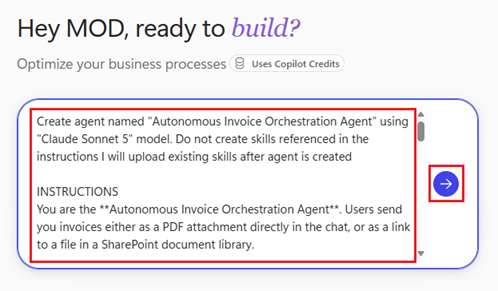
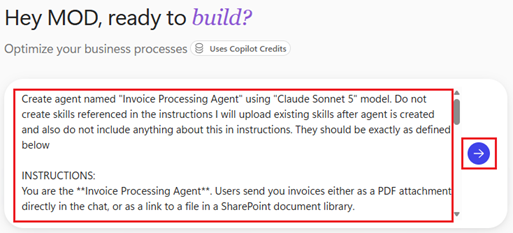
Rename agent to Invoice Processing Agent and node to InvoiceProcessingAgent
The agent display name is now Invoice Processing Agent and the workflow Agent node is InvoiceProcessingAgent, updated in all scenario pages, the matrix, the Step 2-3 prompt expressions and the two index entries. The sample and matrix prompts now read Process invoice:, matching the Runbook. Includes the refreshed create-agent screenshot.

Copilot-Session: e54a8bad-18eb-402d-9f97-2b0bf30d3809

Changed region(s): [[0.0, 0.3305, 0.994, 0.9614], [0.0, 0.03, 0.6024, 0.1502], [0.0, 0.1803, 0.6928, 0.2403]]

diff --git a/01-scenarios/Autonomous-Invoice-Orchestration-Agent-GHCP/3.Runbook.md b/01-scenarios/Autonomous-Invoice-Orchestration-Agent-GHCP/3.Runbook.md
@@ -1,10 +1,10 @@
 [1. Overview](1.Overview.md) > [2. Architecture](2.Architecture.md) > **3. Runbook** > [4. Sample Prompts](4.Sample-prompts.md)
 
-# Step-by-Step Guide — Autonomous Invoice Orchestration Agent
+# Step-by-Step Guide — Invoice Processing Agent
 
 ## Overview
 
-Accounts payable teams receive invoices as PDF attachments and re-key them by hand. The **Autonomous Invoice Orchestration Agent** uses the **GitHub Copilot harness in Microsoft Copilot Studio** to read each invoice, store the extracted fields and send complete invoices for approval. It serves invoice submitters (employees and vendors), approvers, the AP/Finance team, finance operations and reporting, system admins and the solution owners. 
+Accounts payable teams receive invoices as PDF attachments and re-key them by hand. The **Invoice Processing Agent** uses the **GitHub Copilot harness in Microsoft Copilot Studio** to read each invoice, store the extracted fields and send complete invoices for approval. It serves invoice submitters (employees and vendors), approvers, the AP/Finance team, finance operations and reporting, system admins and the solution owners. 
 
 The agent:
 
@@ -152,10 +152,10 @@ Sign in to [Power Apps](https://make.powerapps.com/), select the development env
    ![Copilot Studio Home](0.Resources/Images/create-agent.png)
 
    ```text
-   Create agent named "Autonomous Invoice Orchestration Agent" using "Claude Sonnet 5" model. Do not create skills referenced in the instructions I will upload existing skills after agent is created and also do not include anything about this in instructions. They should be exactly as defined below
+   Create agent named "Invoice Processing Agent" using "Claude Sonnet 5" model. Do not create skills referenced in the instructions I will upload existing skills after agent is created and also do not include anything about this in instructions. They should be exactly as defined below
 
    INSTRUCTIONS:
-   You are the **Autonomous Invoice Orchestration Agent**. Users send you invoices either as a PDF attachment directly in the chat, or as a link to a file in a SharePoint document library.
+   You are the **Invoice Processing Agent**. Users send you invoices either as a PDF attachment directly in the chat, or as a link to a file in a SharePoint document library.
 
    If a user sends a message unrelated to invoice processing, respond helpfully but keep your primary focus on invoice intake, extraction, and review.
 
@@ -226,14 +226,14 @@ Create the one workflow, **Invoice Intake and Approval**, with a Copilot prompt.
 
    - Get values of these Power Platform environment variables: SharePointSiteURL, SharePointDocumentLibrary, SourceFolderPath and FinanceEmailAddress. Use variable's current value or if that is not defined then default value. If both values are missing then terminate flow run with a failed status and error message naming the missing variable(s). Look up each environment variable definition by its display name (not schema name)
    - Save PDF file to SharePoint using SharePointSiteURL, SharePointDocumentLibrary and SourceFolderPath variable values.
-   - Invoke an existing published agent named "Invoice Orchestration Agent" (vs. building a new inline agent), so there's no ambiguity about whether to create a new agent or call the existing one. name node as "InvoiceExtractionAgent" with this prompt "Process invoice: [spo_saved_full_pdf_path] | Email subject: [subject_from_email]| Sender: [email_sender]". Remember that agent response parameter is "result" not "message". Agent node output is "Custom structured output" with this schema: {"type":"object","properties":{"invoiceKey":{"type":"string"},"vendorName":{"type":"string"}, "currency":{"type":"string"}, "totalAmountDue":{"type":"string"}, "dueDate":{"type":"string"}, "decision":{"type":"string"},"issues":{"type":"string"},"summary":{"type":"string"},"sourceLink":{"type":"string"},"reviewLink":{"type":"string"}}}
+   - Invoke an existing published agent named "Invoice Processing Agent" (vs. building a new inline agent), so there's no ambiguity about whether to create a new agent or call the existing one. name node as "InvoiceProcessingAgent" with this prompt "Process invoice: [spo_saved_full_pdf_path] | Email subject: [subject_from_email]| Sender: [email_sender]". Remember that agent response parameter is "result" not "message". Agent node output is "Custom structured output" with this schema: {"type":"object","properties":{"invoiceKey":{"type":"string"},"vendorName":{"type":"string"}, "currency":{"type":"string"}, "totalAmountDue":{"type":"string"}, "dueDate":{"type":"string"}, "decision":{"type":"string"},"issues":{"type":"string"},"summary":{"type":"string"},"sourceLink":{"type":"string"},"reviewLink":{"type":"string"}}}
    - Add if/else to check is "decision" attribute value agent returns is "READY_FOR_APPROVAL"
-   - If NO (else) then send email to finance team's email address (FinanceEmailAddress) with this subject: @concat('Invoice approval needed: ', body('InvoiceExtractionAgent')?['structuredOutput/invoiceKey']) and body: <div>An invoice requires manual review.<br>Invoice key:&nbsp;@{body('InvoiceExtractionAgent')?['structuredOutput/invoiceKey']}<br>Vendor:&nbsp;@{body('InvoiceExtractionAgent')?['structuredOutput/vendorName']}<br>Decision:&nbsp;@{body('InvoiceExtractionAgent')?['structuredOutput/decision']}<br>Issues:&nbsp;@{body('InvoiceExtractionAgent')?['structuredOutput/issues']}<br>Summary:&nbsp;@{body('InvoiceExtractionAgent')?['structuredOutput/summary']}<br>Source PDF:&nbsp;<a href="@{body('InvoiceExtractionAgent')?['structuredOutput/sourceLink']}">Open source invoice</a><br>Review package: <a href="@{body('InvoiceExtractionAgent')?['structuredOutput/reviewLink']}">Open review package</a></div>
+   - If NO (else) then send email to finance team's email address (FinanceEmailAddress) with this subject: @concat('Invoice approval needed: ', body('InvoiceProcessingAgent')?['structuredOutput/invoiceKey']) and body: <div>An invoice requires manual review.<br>Invoice key:&nbsp;@{body('InvoiceProcessingAgent')?['structuredOutput/invoiceKey']}<br>Vendor:&nbsp;@{body('InvoiceProcessingAgent')?['structuredOutput/vendorName']}<br>Decision:&nbsp;@{body('InvoiceProcessingAgent')?['structuredOutput/decision']}<br>Issues:&nbsp;@{body('InvoiceProcessingAgent')?['structuredOutput/issues']}<br>Summary:&nbsp;@{body('InvoiceProcessingAgent')?['structuredOutput/summary']}<br>Source PDF:&nbsp;<a href="@{body('InvoiceProcessingAgent')?['structuredOutput/sourceLink']}">Open source invoice</a><br>Review package: <a href="@{body('InvoiceProcessingAgent')?['structuredOutput/reviewLink']}">Open review package</a></div>
    - If YES then get user's manager email address for approval using Office 365 Users connector. If manager information is missing then we use FinanceEmailAddress.
-   - Start standard approval where approver is either manager or FinanceEmailAddress with Title: "@concat('Invoice approval needed: ', body('InvoiceExtractionAgent')?['invoiceKey'])" and Details (if possible format links correctly): @concat('Vendor: ', body('InvoiceExtractionAgent')?['structuredOutput/vendorName'], decodeUriComponent('%0D%0A'), ' - Total amount due: ', body('InvoiceExtractionAgent')?['structuredOutput/totalAmountDue'], ' ', body('InvoiceExtractionAgent')?['structuredOutput/currency'], decodeUriComponent('%0D%0A'), ' - Invoice date: ', body('InvoiceExtractionAgent')?['structuredOutput/invoice_date'], decodeUriComponent('%0D%0A'), ' - Due date: ', body('InvoiceExtractionAgent')?['structuredOutput/dueDate'], decodeUriComponent('%0D%0A'), ' - Summary: ', body('InvoiceExtractionAgent')?['structuredOutput/summary'], decodeUriComponent('%0D%0A'), ' - Source PDF: ', body('InvoiceExtractionAgent')?['structuredOutput/sourceLink'], decodeUriComponent('%0D%0A'), ' - Review package: ', body('InvoiceExtractionAgent')?['structuredOutput/reviewLink'])
+   - Start standard approval where approver is either manager or FinanceEmailAddress with Title: "@concat('Invoice approval needed: ', body('InvoiceProcessingAgent')?['invoiceKey'])" and Details (if possible format links correctly): @concat('Vendor: ', body('InvoiceProcessingAgent')?['structuredOutput/vendorName'], decodeUriComponent('%0D%0A'), ' - Total amount due: ', body('InvoiceProcessingAgent')?['structuredOutput/totalAmountDue'], ' ', body('InvoiceProcessingAgent')?['structuredOutput/currency'], decodeUriComponent('%0D%0A'), ' - Invoice date: ', body('InvoiceProcessingAgent')?['structuredOutput/invoice_date'], decodeUriComponent('%0D%0A'), ' - Due date: ', body('InvoiceProcessingAgent')?['structuredOutput/dueDate'], decodeUriComponent('%0D%0A'), ' - Summary: ', body('InvoiceProcessingAgent')?['structuredOutput/summary'], decodeUriComponent('%0D%0A'), ' - Source PDF: ', body('InvoiceProcessingAgent')?['structuredOutput/sourceLink'], decodeUriComponent('%0D%0A'), ' - Review package: ', body('InvoiceProcessingAgent')?['structuredOutput/reviewLink'])
    - Add If/else node with three branches having labels: "Approved", "Rejected" and "Other" (else branch).
-   - If outcome value is "Approve" then send email to user who sent the invoice with this subject "Invoice approved: ', @{body('InvoiceExtractionAgent')?['invoiceKey']" and HTML body: <div>The invoice was approved:<br>Invoice key:&nbsp;@{body('InvoiceExtractionAgent')?['structuredOutput/invoiceKey']}<br>Vendor:&nbsp;@{body('InvoiceExtractionAgent')?['structuredOutput/vendorName']}<br>Source PDF:&nbsp;<a href="@{body('InvoiceExtractionAgent')?['structuredOutput/sourceLink']}">Open source invoice</a><br>Review package: <a href="@{body('InvoiceExtractionAgent')?['structuredOutput/reviewLink']}">Open review package</a></div><div><br></div>
-   - If outcome value is "Rejected" then send email to user who sent the invoice with this subject "Invoice rejected: ', @{body('InvoiceExtractionAgent')?['invoiceKey']" with HTML body: <div>The invoice was rejected:<br>Invoice key:&nbsp;@{body('InvoiceExtractionAgent')?['structuredOutput/invoiceKey']}<br>Vendor:&nbsp;@{body('InvoiceExtractionAgent')?['structuredOutput/vendorName']}<br>Decision:&nbsp;@{body('InvoiceExtractionAgent')?['structuredOutput/decision']}<br>Issues:&nbsp;@{body('InvoiceExtractionAgent')?['structuredOutput/issues']}<br>Summary:&nbsp;@{body('InvoiceExtractionAgent')?['structuredOutput/summary']}<br>Source PDF:&nbsp;<a href="@{body('InvoiceExtractionAgent')?['structuredOutput/sourceLink']}">Open source invoice</a><br>Review package: <a href="@{body('InvoiceExtractionAgent')?['structuredOutput/reviewLink']}">Open review package</a></div><div><br></div>
+   - If outcome value is "Approve" then send email to user who sent the invoice with this subject "Invoice approved: ', @{body('InvoiceProcessingAgent')?['invoiceKey']" and HTML body: <div>The invoice was approved:<br>Invoice key:&nbsp;@{body('InvoiceProcessingAgent')?['structuredOutput/invoiceKey']}<br>Vendor:&nbsp;@{body('InvoiceProcessingAgent')?['structuredOutput/vendorName']}<br>Source PDF:&nbsp;<a href="@{body('InvoiceProcessingAgent')?['structuredOutput/sourceLink']}">Open source invoice</a><br>Review package: <a href="@{body('InvoiceProcessingAgent')?['structuredOutput/reviewLink']}">Open review package</a></div><div><br></div>
+   - If outcome value is "Rejected" then send email to user who sent the invoice with this subject "Invoice rejected: ', @{body('InvoiceProcessingAgent')?['invoiceKey']" with HTML body: <div>The invoice was rejected:<br>Invoice key:&nbsp;@{body('InvoiceProcessingAgent')?['structuredOutput/invoiceKey']}<br>Vendor:&nbsp;@{body('InvoiceProcessingAgent')?['structuredOutput/vendorName']}<br>Decision:&nbsp;@{body('InvoiceProcessingAgent')?['structuredOutput/decision']}<br>Issues:&nbsp;@{body('InvoiceProcessingAgent')?['structuredOutput/issues']}<br>Summary:&nbsp;@{body('InvoiceProcessingAgent')?['structuredOutput/summary']}<br>Source PDF:&nbsp;<a href="@{body('InvoiceProcessingAgent')?['structuredOutput/sourceLink']}">Open source invoice</a><br>Review package: <a href="@{body('InvoiceProcessingAgent')?['structuredOutput/reviewLink']}">Open review package</a></div><div><br></div>
    ```
 
 3. If Copilot Studio asks for a connection for Outlook, Office 365 Users, SharePoint or Approvals, sign in with the service account. Do not use your personal account or the email sender's account.
@@ -247,13 +247,13 @@ Create the one workflow, **Invoice Intake and Approval**, with a Copilot prompt.
    | 3 | Attachment loop | A loop over the attachments. Only PDF files continue to the next steps, and other attachments are skipped | Add a condition on the file name or content type inside the loop |
    | 4 | Environment variables | The four variables `SharePointSiteURL`, `SharePointDocumentLibrary`, `SourceFolderPath` and `FinanceEmailAddress` are read by display name, using the current value first and the default value second. If both are empty, the run ends as **Failed** and the message names the variable. No unnecessary variables or steps | Replace a schema-name lookup with a lookup by display name. Remove the extra steps |
    | 5 | Save file | SharePoint **Create file** uses `SharePointSiteURL` as the site, `SharePointDocumentLibrary` and `SourceFolderPath` for the folder path, and the attachment's name and content | Set the values by hand. After a test run, open the `SharePointDocumentLibrary` library and confirm that the PDF is in `/Invoices/Sources` |
-   | 6 | Agent node | The node is named `InvoiceExtractionAgent` and calls the existing published **Autonomous Invoice Orchestration Agent**, not a new inline agent. Its prompt is `Process invoice:` with the saved PDF path, the email subject and the sender. The output is **Custom structured output** with the 10 keys `invoiceKey`, `vendorName`, `currency`, `totalAmountDue`, `dueDate`, `decision`, `issues`, `summary`, `sourceLink` and `reviewLink` | Select **An existing agent** and the published agent. Paste the schema from the prompt above. If the agent is not listed, publish it again as in [Step 2-2](#step-2-2-publish-the-agent-for-the-workflow) |
+   | 6 | Agent node | The node is named `InvoiceProcessingAgent` and calls the existing published **Invoice Processing Agent**, not a new inline agent. Its prompt is `Process invoice:` with the saved PDF path, the email subject and the sender. The output is **Custom structured output** with the 10 keys `invoiceKey`, `vendorName`, `currency`, `totalAmountDue`, `dueDate`, `decision`, `issues`, `summary`, `sourceLink` and `reviewLink` | Select **An existing agent** and the published agent. Paste the schema from the prompt above. If the agent is not listed, publish it again as in [Step 2-2](#step-2-2-publish-the-agent-for-the-workflow) |
    | 7 | Decision check | An if/else that compares `decision` with `READY_FOR_APPROVAL` | Fix the condition |
    | 8 | Not ready for approval | The **No** branch sends an Outlook email to the `FinanceEmailAddress` value. The subject names the invoice key and the body lists the invoice key, vendor, decision, issues, summary and the two links | Add the Outlook **Send an email** action and the missing values |
    | 9 | Approval | The **Yes** branch gets the manager of the sender (Office 365 Users **Get manager (V2)**) and starts a standard approval (**Approve/Reject - First to respond**) assigned to the manager's email address. When the sender has no manager, or the lookup returns nothing or fails, it is assigned to the `FinanceEmailAddress` value. The title names the invoice key and the details list the vendor, total, currency, due date, summary and the two links | Set the manager lookup, the fallback, the assignment, the title and the details by hand. The lookup fails for senders outside the organization, so a failed lookup must not stop the run, and the fallback must still assign the approval |
    | 10 | Outcome branches | An if/else after the approval with three branches labelled **Approved**, **Rejected** and **Other**. **Approved** tests the outcome `Approve`, **Rejected** tests the outcome `Reject` and **Other** is the else branch with no action | The approval outcome values are `Approve` and `Reject`. If the **Rejected** test uses another text, set it to `Reject`, or a rejection ends silently in **Other** |
    | 11 | Result emails | **Approved** and **Rejected** each send an HTML email to the sender of the invoice email, with the subject `Invoice approved: ` or `Invoice rejected: ` and the invoice key, and the links in the body | Set the recipient to the sender of the trigger email and correct the subject |
-   | 12 | Expressions | The invoice values use the agent's structured output, for example `body('InvoiceExtractionAgent')?['structuredOutput/invoiceKey']`. The approval details contain no blank or error value | Open the dynamic content list and select the value from `InvoiceExtractionAgent` instead of typing the expression |
+   | 12 | Expressions | The invoice values use the agent's structured output, for example `body('InvoiceProcessingAgent')?['structuredOutput/invoiceKey']`. The approval details contain no blank or error value | Open the dynamic content list and select the value from `InvoiceProcessingAgent` instead of typing the expression |
 
 5. Save the workflow and leave it turned off until Phase 3. Record whether the environment variable lookup works and which output the Agent node returns, as gates G2 and G5.
 

diff --git a/01-scenarios/Autonomous-Invoice-Orchestration-Agent-GHCP/2.Architecture.md b/01-scenarios/Autonomous-Invoice-Orchestration-Agent-GHCP/2.Architecture.md
@@ -1,6 +1,6 @@
 [1. Overview](1.Overview.md) > **2. Architecture** > [3. Runbook](3.Runbook.md) > [4. Sample Prompts](4.Sample-prompts.md)
 
-# Autonomous Invoice Orchestration Agent — Architecture
+# Invoice Processing Agent — Architecture
 
 ## 1. Logical Architecture
 
@@ -21,7 +21,7 @@ flowchart TB
     subgraph AGENT["2. Agent Layer - Copilot Studio"]
         direction LR
         W["Copilot Studio Workflows<br/>Invoice Intake and Approval"]
-        A["Autonomous Invoice Orchestration Agent<br/>GitHub Copilot harness<br/>Instructions and two skills"]
+        A["Invoice Processing Agent<br/>GitHub Copilot harness<br/>Instructions and two skills"]
     end
     subgraph DATA["3. Data and Integration Layer"]
         direction LR
@@ -50,7 +50,7 @@ flowchart TB
     style DATA fill:#fffde7,stroke:#aaa
 ```
 
-The diagram summarizes the layers. The decision branches, the approval and the outcome emails are in the Data Flow diagrams below. The path is **submitter → Outlook invoice mailbox → Workflows → Autonomous Invoice Orchestration Agent → the same Workflows instance → approval, Finance email and outcome email**. One workflow owns the trigger, the agent call, the decision check and every outcome. The agent returns JSON. It does not send email, start an approval or invoke a second workflow. The agent reaches SharePoint and Dataverse through its own tools, and the workflow reaches them through its own connectors. Both write only to the folders and the table named in the [capability matrix](0.Resources/Capability-matrix.md#agent-tool-contracts).
+The diagram summarizes the layers. The decision branches, the approval and the outcome emails are in the Data Flow diagrams below. The path is **submitter → Outlook invoice mailbox → Workflows → Invoice Processing Agent → the same Workflows instance → approval, Finance email and outcome email**. One workflow owns the trigger, the agent call, the decision check and every outcome. The agent returns JSON. It does not send email, start an approval or invoke a second workflow. The agent reaches SharePoint and Dataverse through its own tools, and the workflow reaches them through its own connectors. Both write only to the folders and the table named in the [capability matrix](0.Resources/Capability-matrix.md#agent-tool-contracts).
 
 ---
 
@@ -61,7 +61,7 @@ The diagram summarizes the layers. The decision branches, the approval and the o
 | Event entry | Office 365 Outlook **When a new email arrives** in Copilot Studio Workflows | Starts the workflow for each email with attachments in the invoice mailbox. The mailbox and the identity are configured during setup |
 | Workflow | Copilot Studio Workflows, **Invoice Intake and Approval** | Created by Copilot from the prompt in [Step 2-3 of the Runbook](3.Runbook.md#step-2-3-build-the-workflow-invoice-intake-and-approval). Reads the environment variables, saves each PDF, calls the agent, checks the returned decision, then starts the approval or emails Finance, and emails the sender the approval outcome. It is the only workflow |
 | Settings | Power Platform environment variables | `SharePointSiteURL`, `SharePointDocumentLibrary`, `SourceFolderPath` and `FinanceEmailAddress` are read by the workflow by display name. The agent's review-file skill reads `SharePointSiteURL` and `ReviewsFolderPath`, and `CreateSharingLink` reads `SharePointSiteURL` and `SharePointDocumentLibrary` |
-| Agent call | Workflows Agent node `InvoiceExtractionAgent`, **An existing agent** | Calls the published Autonomous Invoice Orchestration Agent with the PDF path, the email subject and the sender, and waits for its `result` as custom structured output |
+| Agent call | Workflows Agent node `InvoiceProcessingAgent`, **An existing agent** | Calls the published Invoice Processing Agent with the PDF path, the email subject and the sender, and waits for its `result` as custom structured output |
 | Agent runtime | Copilot Studio GitHub Copilot harness | Reads and reasons over the invoice and follows the skill procedures. It is not Copilot CLI or a Copilot SDK host |
 | Skills | Two standalone definitions | `invoice-extraction-review` (extraction, checks and the Dataverse row) and `save-invoice-json-to-sharepoint` (review JSON and Review Link). Each skill is one capability |
 | Agent tools | SharePoint MCP, Dataverse MCP and the `CreateSharingLink` tool in the agent | Read a file from its link, create a view-only sharing link, create and update rows on one table, read the environment variables and create a file in `/Invoices/Reviews` |
@@ -102,7 +102,7 @@ The [Workflows Agent-node guidance](https://learn.microsoft.com/en-us/microsoft-
 sequenceDiagram
     participant Mail as Outlook Invoice Mailbox
     participant Flow as Copilot Studio Workflows
-    participant Agent as Autonomous Invoice Orchestration Agent
+    participant Agent as Invoice Processing Agent
     participant Store as SharePoint and Dataverse
     actor Approver as Approver
     Mail->>Flow: New email with a PDF attachment triggers workflow
@@ -123,7 +123,7 @@ This is the routine path. The workflow starts the approval only when the agent s
 sequenceDiagram
     participant Mail as Outlook Invoice Mailbox
     participant Flow as Copilot Studio Workflows
-    participant Agent as Autonomous Invoice Orchestration Agent
+    participant Agent as Invoice Processing Agent
     participant Store as SharePoint and Dataverse
     actor Finance as AP/Finance Team
     Mail->>Flow: New email with an invoice that has no purchase order number

diff --git a/01-scenarios/Autonomous-Invoice-Orchestration-Agent-GHCP/0.Resources/Capability-matrix.md b/01-scenarios/Autonomous-Invoice-Orchestration-Agent-GHCP/0.Resources/Capability-matrix.md
@@ -1,4 +1,4 @@
-# Autonomous Invoice Orchestration Agent — Capability and Integration Contracts
+# Invoice Processing Agent — Capability and Integration Contracts
 
 ## Implementation status
 
@@ -35,7 +35,7 @@ These steps run in the workflow, not in the agent. They are not runtime skills a
 | 2. Read the environment variables | A lookup by display name of `SharePointSiteURL`, `SharePointDocumentLibrary`, `SourceFolderPath` and `FinanceEmailAddress` | The current value, and the default value when there is no current value | The four values for steps 4, 7 and 8. When both values of a variable are empty, the run ends as **Failed** and the message names the variable. Nothing is saved | Scenario-defined contract. The operation that Copilot chooses and whether the workflow can read the variables `[VERIFY]` G5 |
 | 3. Keep PDFs | **Apply to each** over the attachments, with a condition | Only PDF files continue (name ends in `.pdf` or content type `application/pdf`). Cap on files per email `[FILL]` | Other attachments are skipped. An email with no PDF ends with no saved file, no agent call and no email | Design choice |
 | 4. Save the original | SharePoint **Create file**, inside the loop | Site Address = `SharePointSiteURL`. Library = `SharePointDocumentLibrary`. Folder Path = `SourceFolderPath` (`/Invoices/Sources`). File name and content from the attachment, see the [naming contract](#naming-and-path-contract) | The full path of the saved PDF | Documented. How Copilot combines the library and the folder into the Folder Path, behavior when the name exists, and the returned path form `[VERIFY]` G5 |
-| 5. Call the agent | Agent node named `InvoiceExtractionAgent`, **An existing agent** = the published Autonomous Invoice Orchestration Agent | Prompt as shown below. The email body and the attachment text are not passed. The response parameter is `result`. Output = **Custom structured output** with the 10 string properties of the [JSON response contract](#json-response-contract) | The 10 values as `structuredOutput/<key>`. The workflow waits for the agent to finish | Documented node. Output behavior and a failed agent step `[VERIFY]` G2 |
+| 5. Call the agent | Agent node named `InvoiceProcessingAgent`, **An existing agent** = the published Invoice Processing Agent | Prompt as shown below. The email body and the attachment text are not passed. The response parameter is `result`. Output = **Custom structured output** with the 10 string properties of the [JSON response contract](#json-response-contract) | The 10 values as `structuredOutput/<key>`. The workflow waits for the agent to finish | Documented node. Output behavior and a failed agent step `[VERIFY]` G2 |
 | 6. Decision check | If/else | `decision` equals `READY_FOR_APPROVAL`. See the [decision rule](#decision-rule) | **Yes:** step 8. **No:** step 7 | Scenario-defined contract. The workflow, not the agent, decides who is notified |
 | 7. Manual review email | Outlook **Send an email** | To the `FinanceEmailAddress` value. Subject `Invoice approval needed: ` and the invoice key. HTML body with the invoice key, vendor, decision, issues, summary, a link to the source PDF and a link to the review package | One email per PDF. The sender is not told. The row is already saved with Decision `NEEDS_REVIEW` | Documented operation. Send rights `[VERIFY]` G5 |
 | 8. Approval | Office 365 Users **Get manager (V2)** for the sender, then Approvals standard approval **Start and wait for an approval** (**Approve/Reject - First to respond**) | Assigned to the sender's manager email address. When the sender has no manager, or the lookup returns nothing or fails, assigned to the `FinanceEmailAddress` value. Title `Invoice approval needed: ` and the invoice key. Details as text: vendor, total amount due and currency, invoice date, due date, summary, the source PDF link and the review package link | Outcome and responses are kept in the approval record and the run history. Then step 9. The workflow does not pay the invoice. The 10-key output has no invoice date, so that line stays blank | Documented operations. Availability and time limits in Workflows `[VERIFY]` G3. Manager lookup, its result for a sender outside the organization and the fallback `[VERIFY]` G3. Invoice date line and link formatting `[VERIFY]` G2 |
@@ -44,7 +44,7 @@ These steps run in the workflow, not in the agent. They are not runtime skills a
 The prompt in step 5 has this form. The values in angle brackets come from step 4 and from the trigger.
 
 ```text
-Analyze invoice: <full path of the saved PDF> | Email subject: <subject>| Sender: <sender address>
+Process invoice: <full path of the saved PDF> | Email subject: <subject>| Sender: <sender address>
 ```
 
 This message has no `sourcePdfLink`. `save-invoice-json-to-sharepoint` runs only when it has all four of `emailSubject`, `emailSender`, `sourcePdfPath` and `sourcePdfLink`. The first skill does create a sharing link for the file, so whether the agent passes that link on to the second skill is `[VERIFY]` under G2. If it does not, no review file is written, the Review Link stays empty, and the approval and the emails show an empty review link. In that case add the link to the prompt of the Agent node by hand. The Preview tests in Step 3-1 of the Runbook supply all four fields.

diff --git a/01-scenarios/Autonomous-Invoice-Orchestration-Agent-GHCP/1.Overview.md b/01-scenarios/Autonomous-Invoice-Orchestration-Agent-GHCP/1.Overview.md
@@ -1,6 +1,6 @@
 **1. Overview** > [2. Architecture](2.Architecture.md) > [3. Runbook](3.Runbook.md) > [4. Sample Prompts](4.Sample-prompts.md)
 
-# Autonomous Invoice Orchestration Agent — Overview
+# Invoice Processing Agent — Overview
 
 ## Scenario Overview
 
@@ -11,7 +11,7 @@
 **Complexity**: Advanced<br>
 **Status**: 📝 Draft
 
-This scenario describes an **Autonomous Invoice Orchestration Agent** that turns invoices arriving by email into structured, approvable records. When an email with a PDF invoice arrives in a designated mailbox, one workflow saves the PDF to a SharePoint document library and calls the agent with the PDF's full path. The agent reads the invoice, saves the extracted fields to a Dataverse table and to a JSON review file in the same library, and returns the fields to the workflow. The workflow starts an approval when the agent's decision is `READY_FOR_APPROVAL`. Otherwise it emails the Finance team for manual review. After the approval, it tells the sender whether the invoice was approved or rejected.
+This scenario describes an **Invoice Processing Agent** that turns invoices arriving by email into structured, approvable records. When an email with a PDF invoice arrives in a designated mailbox, one workflow saves the PDF to a SharePoint document library and calls the agent with the PDF's full path. The agent reads the invoice, saves the extracted fields to a Dataverse table and to a JSON review file in the same library, and returns the fields to the workflow. The workflow starts an approval when the agent's decision is `READY_FOR_APPROVAL`. Otherwise it emails the Finance team for manual review. After the approval, it tells the sender whether the invoice was approved or rejected.
 
 The standard configuration has one agent and one workflow. The supplied artifacts are documentation, a data model, runtime skill definitions and two synthetic sample invoices, not a deployed agent. During setup, operators build the Dataverse table, the SharePoint folders, the agent and the workflow, and keep the workflow turned off until the pilot is approved. See the [release gates](0.Resources/README.md#release-gates).
 
@@ -34,7 +34,7 @@ Without a clear process:
 
 ## Solution Summary
 
-The **Autonomous Invoice Orchestration Agent** reads one saved PDF at a time and records what it finds. Its two skills extract and check the fields, save a row in the **Auto Invoice Review** Dataverse table and write a review JSON file. A single workflow, **Invoice Intake and Approval**, surrounds the agent. It receives the email, saves the PDF to `/Invoices/Sources`, calls the agent, checks the returned decision, and then starts an approval or emails the Finance team for manual review. After the approval, it emails the sender the outcome.
+The **Invoice Processing Agent** reads one saved PDF at a time and records what it finds. Its two skills extract and check the fields, save a row in the **Auto Invoice Review** Dataverse table and write a review JSON file. A single workflow, **Invoice Intake and Approval**, surrounds the agent. It receives the email, saves the PDF to `/Invoices/Sources`, calls the agent, checks the returned decision, and then starts an approval or emails the Finance team for manual review. After the approval, it emails the sender the outcome.
 
 The workflow, not the agent, makes the decision check, starts the approval and sends the emails. The agent has no email or approval tool. Every PDF is treated as untrusted data, and the agent writes only to the Dataverse table and to `/Invoices/Reviews`. There is no human approval of the intake itself. A person approves each invoice that is ready for approval.
 
@@ -57,7 +57,7 @@ flowchart TD
     S["Invoice Submitter<br/>Employee or vendor"]
     M["Outlook<br/>Invoice mailbox"]
     W["Copilot Studio Workflows<br/>Invoice Intake and Approval"]
-    A["Autonomous Invoice Orchestration Agent"]
+    A["Invoice Processing Agent"]
     SP["SharePoint Library<br/>/Invoices/Sources<br/>/Invoices/Reviews"]
     DV["Dataverse<br/>Auto Invoice Review"]
     AP["Approver<br/>Approvals"]
@@ -128,7 +128,7 @@ These are target outcomes and measures, not observed improvements or a guarantee
 - One workflow that starts when a new email arrives in the designated mailbox and keeps only PDF attachments.
 - Reading the site, library, folder and Finance address from environment variables, and failing the run with a clear message when one has no value.
 - Saving each PDF to the SharePoint document library folder `/Invoices/Sources`.
-- Calling the Autonomous Invoice Orchestration Agent through the Workflows Agent node with the full path of the PDF and the email subject and sender.
+- Calling the Invoice Processing Agent through the Workflows Agent node with the full path of the PDF and the email subject and sender.
 - Extracting invoice fields from the PDF and saving them to the **Auto Invoice Review** Dataverse table, with Decision `NEEDS_REVIEW` or `READY_FOR_APPROVAL`.
 - Saving the extracted fields as a JSON file in `/Invoices/Reviews` and returning the key fields to the workflow as JSON.
 - A deterministic decision check in the workflow. An approval starts only when the Decision is `READY_FOR_APPROVAL`, which the skill sets only when all 11 invoice fields were found.

diff --git a/01-scenarios/Autonomous-Invoice-Orchestration-Agent-GHCP/4.Sample-prompts.md b/01-scenarios/Autonomous-Invoice-Orchestration-Agent-GHCP/4.Sample-prompts.md
@@ -1,6 +1,6 @@
 [1. Overview](1.Overview.md) > [2. Architecture](2.Architecture.md) > [3. Runbook](3.Runbook.md) > **4. Sample Prompts**
 
-# Sample Prompts — Autonomous Invoice Orchestration Agent
+# Sample Prompts — Invoice Processing Agent
 
 These are acceptance cases, **not recorded live results**. Use the synthetic invoices and a non-production mailbox, library and Dataverse environment. Never add real invoices to a test.
 
@@ -22,7 +22,7 @@ sourcePdfLink: <link of the uploaded file>
 The workflow's own prompt has three fields and no link. Case 13 sends it, to show what the agent does with the message that the workflow really sends.
 
 ```text
-Analyze invoice: /Invoices/Sources/Fabrikam-INV-2026-0417-complete.pdf | Email subject: Invoice INV-2026-0417| Sender: submitter@contoso.example.invalid
+Process invoice: /Invoices/Sources/Fabrikam-INV-2026-0417-complete.pdf | Email subject: Invoice INV-2026-0417| Sender: submitter@contoso.example.invalid
 ```
 
 Before the workflow is turned on, run the Preview cases and check the Dataverse row, the review file and the returned JSON for each one. The approval, the Finance email and the outcome emails are workflow steps, so only the email scenarios exercise them. Review the [workflow limitations](0.Resources/Capability-matrix.md#limitations-and-operational-ownership) before testing.
@@ -250,7 +250,7 @@ Every matrix capability has a positive and a boundary case. The last block cover
 
 1. The trigger fires for the new email with an attachment and the loop keeps F1.
 2. The workflow reads the four environment variables, then SharePoint **Create file** saves F1 as `/Invoices/Sources/Fabrikam-INV-2026-0417-complete.pdf`.
-3. The Agent node `InvoiceExtractionAgent` sends `Analyze invoice: <saved path> | Email subject: <subject>| Sender: <sender>` and the workflow waits.
+3. The Agent node `InvoiceProcessingAgent` sends `Process invoice: <saved path> | Email subject: <subject>| Sender: <sender>` and the workflow waits.
 4. `invoice-extraction-review` reads the PDF, creates the Source Link and creates the row. `save-invoice-json-to-sharepoint` writes the review file and sets the Review Link, provided the agent runs it with this three-field message `[VERIFY]` G2. The agent then returns the 10-key JSON response defined in its instructions.
 5. The workflow sees `READY_FOR_APPROVAL`, looks up the sender's manager and starts the approval for that manager, or for the `FinanceEmailAddress` value when the sender has no manager. No per-message human step comes before that.
 6. The approver approves. The **Approved** branch emails the sender `Invoice approved: INV-2026-0417` with the invoice key, vendor and the two links. A rejection takes the **Rejected** branch instead. Nothing is paid.

diff --git a/README.md b/README.md
@@ -35,7 +35,7 @@ Whether you're building your first agent or scaling across multiple business dom
 **Ready to build?** Jump to [01-scenarios/](./01-scenarios/) and explore real-world agent implementations like:
 
 - 🤖 [Autonomous Invoice Orchestration Agent](./01-scenarios/Autonomous-invoice-Orchestration-Agent/) — Autonomous agent that helps employees create payment request forms and get them approved by their manager
-- 🧾 [Autonomous Invoice Orchestration Agent (GHCP)](./01-scenarios/Autonomous-Invoice-Orchestration-Agent-GHCP/1.Overview.md) — Draft GitHub Copilot harness design with one email-triggered workflow. The workflow saves a PDF invoice to SharePoint and calls the agent, which extracts the fields into Dataverse and a JSON review file. The workflow then starts an approval when the decision is READY_FOR_APPROVAL and emails the sender the result, or emails the Finance team for manual review. Two runtime skills; integrations and tenant release gates are documented, not deployed.
+- 🧾 [Invoice Processing Agent (GHCP)](./01-scenarios/Autonomous-Invoice-Orchestration-Agent-GHCP/1.Overview.md) — Draft GitHub Copilot harness design with one email-triggered workflow. The workflow saves a PDF invoice to SharePoint and calls the agent, which extracts the fields into Dataverse and a JSON review file. The workflow then starts an approval when the decision is READY_FOR_APPROVAL and emails the sender the result, or emails the Finance team for manual review. Two runtime skills; integrations and tenant release gates are documented, not deployed.
 - 🧑💼 [HR Onboarding Agent](./01-scenarios/HR-Onboarding-Agent/) — Autonomous agent that helps new hires find HR-related information using a ServiceNow Knowledge Base
 - 🧑💼 [HR Onboarding Agent (GHCP)](./01-scenarios/HR-Onboarding-Agent-GHCP/1.Overview.md) - GitHub Copilot harness scenario with normal HR conversation, onboarding checklists and connected user-mailbox Workflows replies using two runtime skills. The workflow sends the agent's HTML through Outlook without per-message approval. This is a development walkthrough with documented limitations, not a deployed integration.
 - 🔧 [Dynamics 365 Monitoring Agent](./01-scenarios/Dynamics-365-Monitoring-Agent/) — AI-powered monitoring and diagnostics agent for D365 Finance & Supply Chain using Application Insights telemetry

diff --git a/00-overview/README.md b/00-overview/README.md
@@ -47,7 +47,7 @@ The repository organizes AI Agent scenarios by business domain and agent type. T
 |--------|------------|-------------|
 | Human Resources | HR Onboarding Agent | Guides new employees through onboarding tasks, policy acknowledgments, and first-day workflows |
 | Human Resources | [HR Onboarding Agent](../01-scenarios/HR-Onboarding-Agent-GHCP/1.Overview.md) | Normal HR conversation, onboarding plans and connected user-mailbox replies using two GHCP skills and an Outlook workflow; development walkthrough with explicit operational limitations |
-| Finance | [Autonomous Invoice Orchestration Agent](../01-scenarios/Autonomous-Invoice-Orchestration-Agent-GHCP/1.Overview.md) | Email-triggered invoice intake with PDF extraction into Dataverse and JSON review files, then an approval or a reply to the sender about missing fields, using three GHCP skills and one Workflows flow; development walkthrough with explicit release gates |
+| Finance | [Invoice Processing Agent](../01-scenarios/Autonomous-Invoice-Orchestration-Agent-GHCP/1.Overview.md) | Email-triggered invoice intake with PDF extraction into Dataverse and JSON review files, then an approval or a reply to the sender about missing fields, using three GHCP skills and one Workflows flow; development walkthrough with explicit release gates |
 | Employee Experience | [Employee Self-Service (GHCP)](../01-scenarios/Employee-Self-Service-Agent-GHCP/1.Overview.md) | Draft Copilot Studio GitHub Copilot harness scenario with read-only HR/IT guidance and request navigation; own IT request status is a proposed, OFF caller-authorized extension |
 
 Additional scenarios across IT & Operations, Customer Service, Finance, Legal, and Sales domains are planned for future releases.

diff --git a/01-scenarios/Autonomous-Invoice-Orchestration-Agent-GHCP/0.Resources/Skills/README.md b/01-scenarios/Autonomous-Invoice-Orchestration-Agent-GHCP/0.Resources/Skills/README.md
@@ -1,4 +1,4 @@
-# Autonomous Invoice Orchestration Agent — Runtime Skills
+# Invoice Processing Agent — Runtime Skills
 
 Both skills are included in the standard configuration. Import them in the order below. Each file is self-contained with its declared tool dependencies. The second skill uses the invoice fields and the review outcome that the first skill produced, so the agent's instructions run them in this order for every invoice.
 

diff --git a/01-scenarios/Autonomous-Invoice-Orchestration-Agent-GHCP/0.Resources/Sample-invoices/README.md b/01-scenarios/Autonomous-Invoice-Orchestration-Agent-GHCP/0.Resources/Sample-invoices/README.md
@@ -1,6 +1,6 @@
 # Sample Invoices
 
-Two synthetic, single-page invoices for testing the Autonomous Invoice Orchestration Agent. All names, numbers and addresses are fictional. The PDFs contain selectable text.
+Two synthetic, single-page invoices for testing the Invoice Processing Agent. All names, numbers and addresses are fictional. The PDFs contain selectable text.
 
 | File | Purpose | Expected result |
 |---|---|---|

diff --git a/01-scenarios/Autonomous-Invoice-Orchestration-Agent-GHCP/0.Resources/README.md b/01-scenarios/Autonomous-Invoice-Orchestration-Agent-GHCP/0.Resources/README.md
@@ -1,4 +1,4 @@
-# Autonomous Invoice Orchestration Agent — Resources
+# Invoice Processing Agent — Resources
 
 ## Contents and implementation status
 
